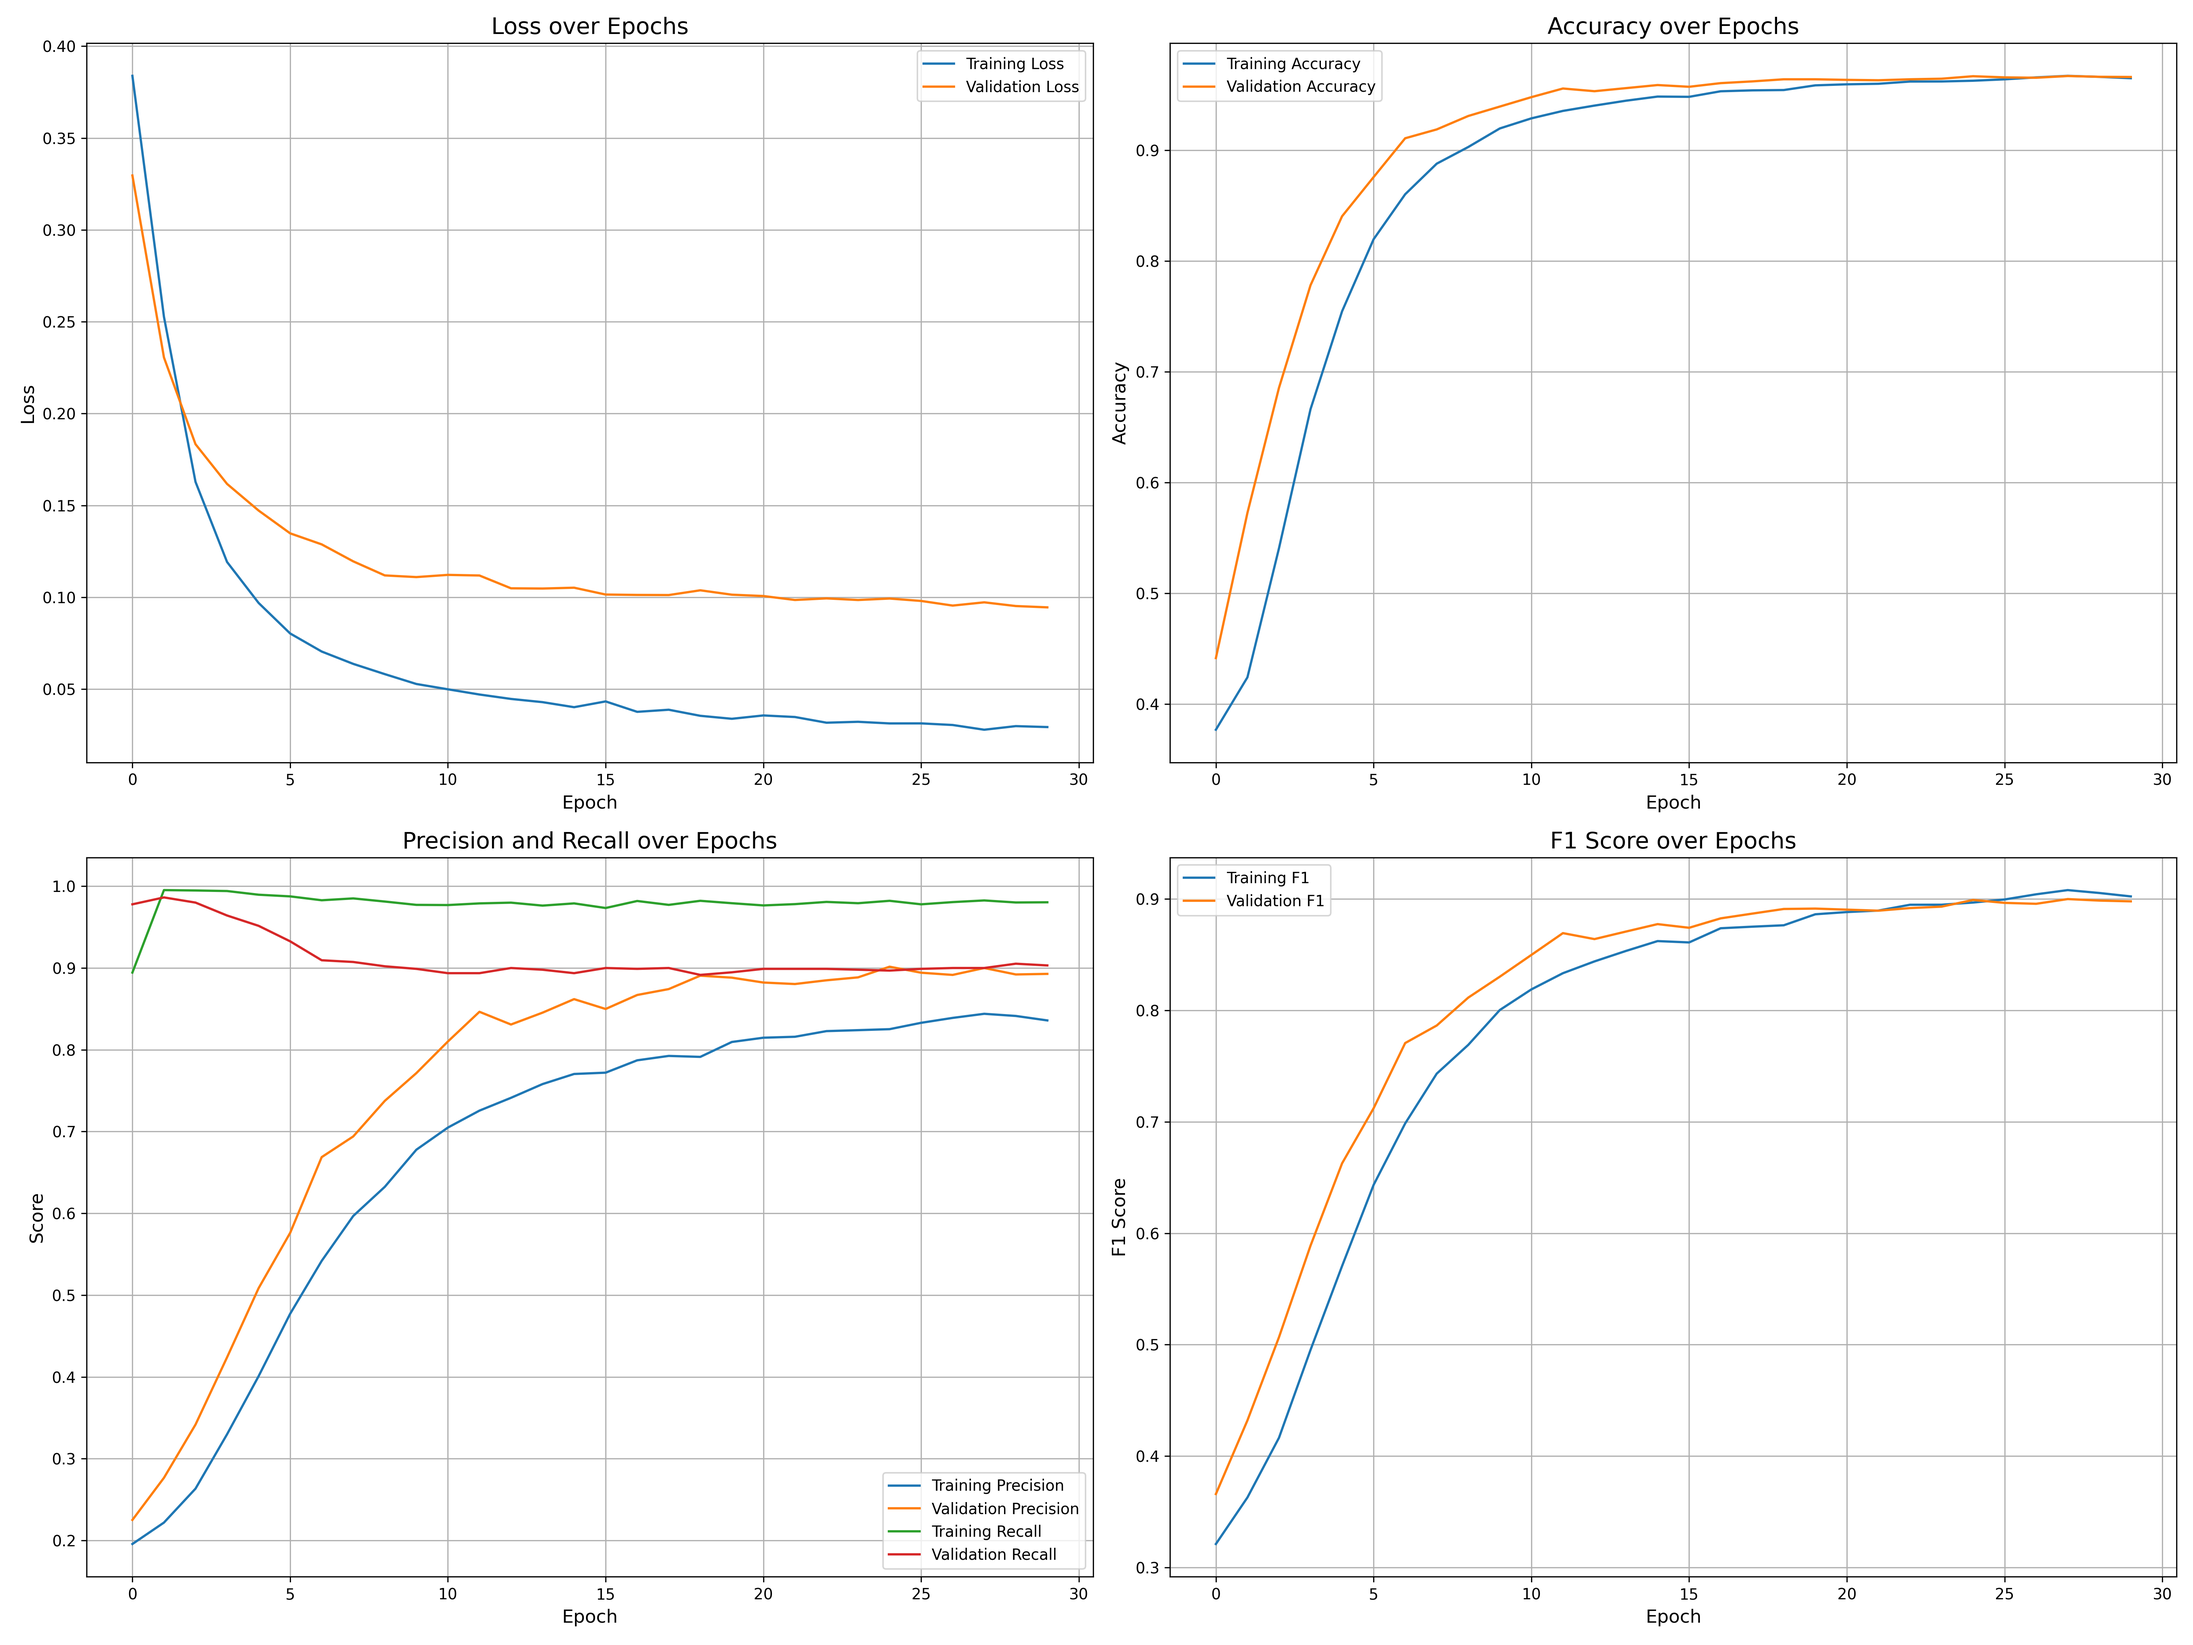
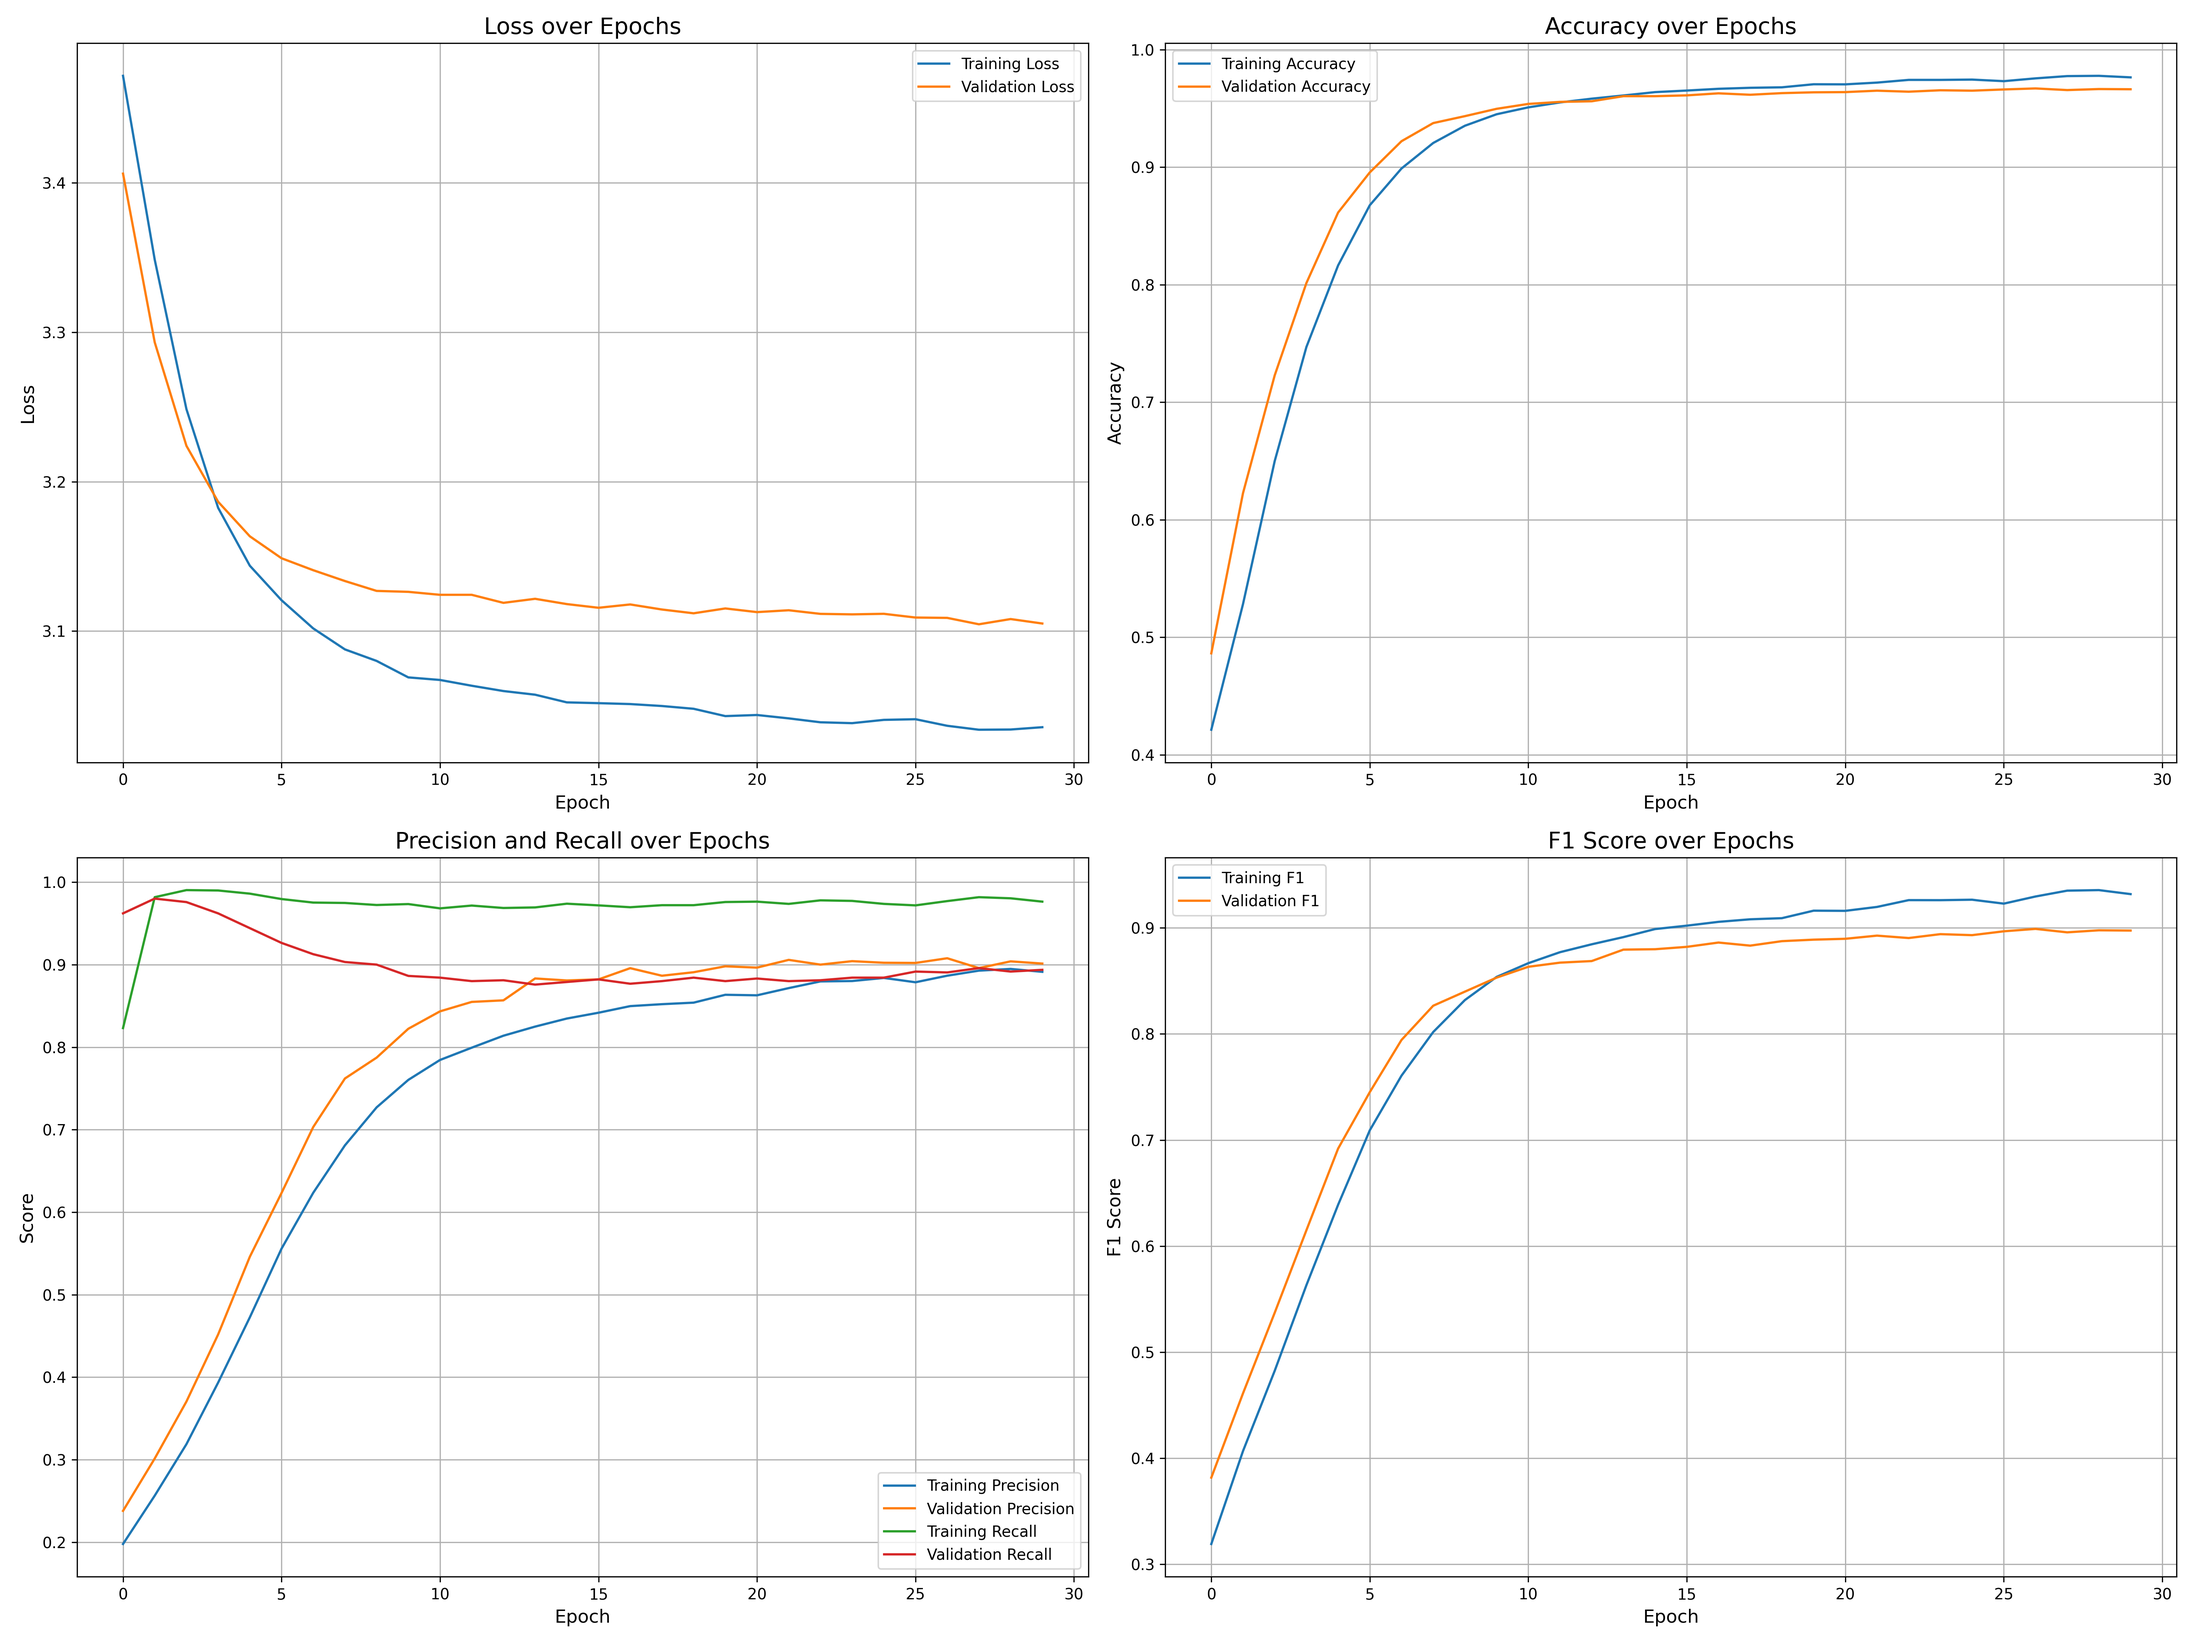
training run with skin type loss and stratification

diff --git a/trainer/trainer.py b/trainer/trainer.py
@@ -76,7 +76,7 @@ def train():
                 print(f"Ppositive class weight: {pos_weight.item():.2f}")
                 print(f"Malignant count: {malignant_count} --> using focal loss")
                 pos_weight=pos_weight.to(device)
-                loss_fn = FocalLoss(alpha=0.75, gamma=3, reduction="mean", pos_weight=pos_weight)
+                loss_fn = FocalLoss(alpha=0.75, gamma=2, reduction="mean", pos_weight=pos_weight)
             else:
                 print("WARNING: No malignant samples found in dataset, using unweighted loss")
                 loss_fn = nn.BCEWithLogitsLoss()

diff --git a/trainer/modelTrainer.py b/trainer/modelTrainer.py
@@ -127,7 +127,7 @@ class CachedMelanomaDataset(Dataset):
         else:
             image = self.transform(image)
             
-        return image, target
+        return image, target, skin_type
 
 
 def load_model(model_path, model, optimizer):
